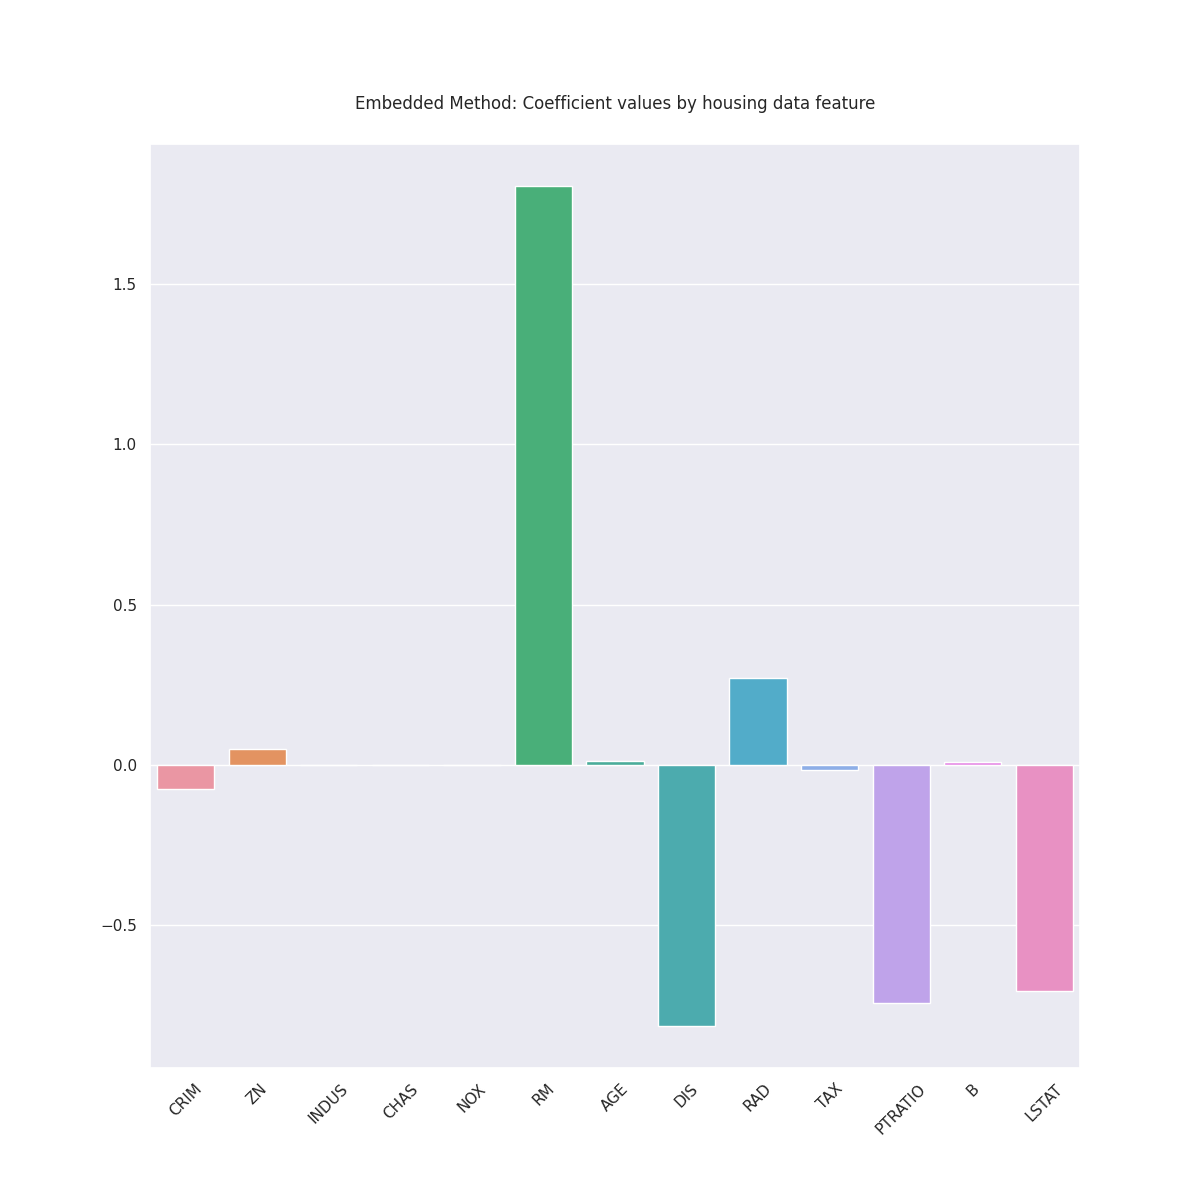
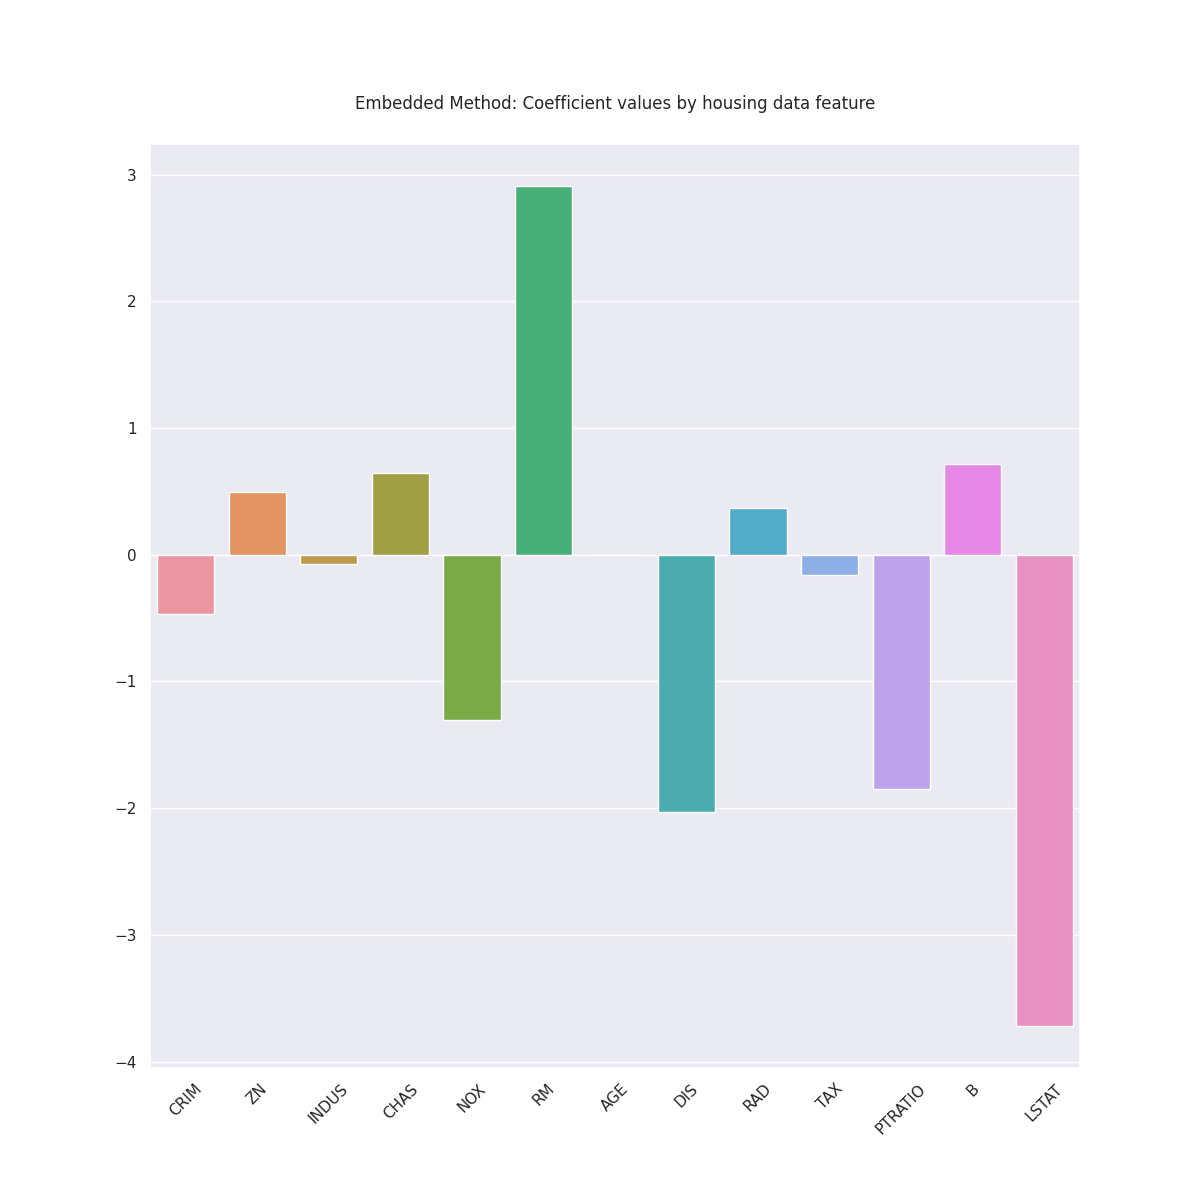
- Corrected correlation table generation code (filter method) - Corrected high correlation table feature selection criteria to remove an irrelevant feature (filter method) - Corrected feature selection code (filter method) - Renamed variables for scaled features (embedded method) - Renamed variables

diff --git a/Median_Value_Prediction.py b/Median_Value_Prediction.py
@@ -17,7 +17,8 @@ from sklearn.svm import SVR
 from sklearn.ensemble import GradientBoostingRegressor
 from sklearn.neighbors import KNeighborsRegressor
 
-from sklearn.linear_model import LassoCV  # Select features using Embedded
+from sklearn.feature_selection import SelectFromModel  # Select features using Embedded method
+from sklearn.linear_model import LassoCV  # Select features using Embedded method
 
 
 def load_data():
@@ -30,7 +31,7 @@ def prepare_data(housing_dat):
     housing_dat.columns = ['CRIM', 'ZN', 'INDUS', 'CHAS', 'NOX', 'RM', 'AGE',
                            'DIS', 'RAD', 'TAX', 'PTRATIO', 'B', 'LSTAT', 'MEDV']
 
-    print(f'\nNull values for data are:{housing_dat.isnull().sum()}\n')
+    print(f'\nNull values for data are:\n{housing_dat.isnull().sum()}\n')
     return housing_dat
 
 
@@ -59,7 +60,27 @@ def scale_data(x):
     return scaler.transform(x)
 
 
+def compute_rmse(X, y, rmse_matrix, col_select):
+    """Accepts feature and target data, RMSE numpy matrix and matrix column number to store RMSE values.
+    Trains all models and computes RMSE values from predictions."""
+    # Scale data
+    X = scale_data(X)
+
+    # Split data for training
+    X_train, X_test, y_train, y_test = train_test_split(X, y, test_size=0.35,
+                                                        shuffle=True, random_state=1)
+    # Train models and place RMSE result in RMSE_values
+    rmse_idx = 0
+    for Model in [LinearRegression, GradientBoostingRegressor, ElasticNet, KNeighborsRegressor, Lasso, SVR]:
+        model = Model()
+        model.fit(X_train, y_train)
+        predicted_values = model.predict(X_test)
+        rmse_matrix[rmse_idx, col_select] = np.sqrt(metrics.mean_squared_error(y_test, predicted_values))
+        rmse_idx += 1
+
+
 def main():
+    # Parse command-line argument for figure storage path
     parser = ArgumentParser()
     parser.add_argument("figure_directory", nargs='?', default=os.getcwd(),
                         help="Directory to save output images. "
@@ -82,20 +103,7 @@ def main():
     X = housing_data.drop('MEDV', axis=1)  # Select all features and copy to X
     y = housing_data['MEDV']  # Copy median house values (target) to y
 
-    # Scale data
-    scaled_features = scale_data(X)
-
-    # Split data for training
-    X_train, X_test, y_train, y_test = train_test_split(scaled_features, y, test_size=0.35,
-                                                        shuffle=True, random_state=1)
-    # Train models using method 1 and place RMSE result in RMSE_values
-    rmse_idx = 0
-    for Model in [LinearRegression, GradientBoostingRegressor, ElasticNet, KNeighborsRegressor, Lasso, SVR]:
-        model = Model()
-        model.fit(X_train, y_train)
-        predicted_values = model.predict(X_test)
-        rmse_values[rmse_idx, 0] = np.sqrt(metrics.mean_squared_error(y_test, predicted_values))
-        rmse_idx += 1
+    compute_rmse(X, y, rmse_values, 0)
 
     #####################################################
     ##    Feature Selection Method 2: Filter Method    ##
@@ -104,12 +112,15 @@ def main():
     # Create correlation table for data
     corr_table = pd.DataFrame(data=housing_data.corr(),
                               columns=housing_data.columns)
-    corr_table_tril = corr_table.corr().where(np.tril(np.ones(corr_table.corr().shape)).astype(np.bool))
+
+    # Format correlation table
+    mask = np.zeros(corr_table.shape, dtype=bool)
+    mask[np.triu_indices(len(mask), 1)] = True
 
     # Create heatmap of correlation data and save image
     sns.set()
     fig, ax = plt.subplots(figsize=(12, 12))
-    sns.heatmap(corr_table_tril, annot=True, cmap='autumn')
+    sns.heatmap(corr_table, annot=True, cmap='autumn', fmt='.3g', mask=mask, annot_kws={'size': 9})
     ax.set_xticklabels(housing_data.columns, rotation=45)
     ax.set_yticklabels(housing_data.columns, rotation=45)
     plt.title('Correlation map for Boston Housing Data', pad=25)
@@ -118,10 +129,12 @@ def main():
 
     # Determine features which correlate highly with median house value
     corr_y = abs(corr_table["MEDV"])
-    high_corr_features = corr_y[corr_y > 0.5]
+    high_corr_features = corr_y[(corr_y > 0.5) & (corr_y != 1)]
+    print(f"\nFilter Method:\n\nFeatures highly correlated with MEDV (coefficient > 0.5):\n")
+    print(f"{high_corr_features}")
 
     # Determine correlations between features that have a high corr with MEDV and drop
-    print(f"\nFilter Method:\n\nCorrelation between features that have a high corr with MEDV:\n")
+    print(f"\n\nCorrelation between features that have a high corr with MEDV:\n")
     print(f"{housing_data[['RM', 'LSTAT']].corr()}\n\n{housing_data[['LSTAT', 'PTRATIO']].corr()}")
     print(f'\nRM will be removed accordingly\n\n')
 
@@ -129,20 +142,7 @@ def main():
     X = housing_data[['LSTAT', 'PTRATIO']]
     y = housing_data['MEDV']
 
-    # Scale data
-    scaled_features = scale_data(X)
-
-    X_train, X_test, y_train, y_test = train_test_split(scaled_features, y, test_size=0.35,
-
-                                                        shuffle=True, random_state=1)
-    # Train models using method 2 and place RMSE result in RMSE_values
-    rmse_idx = 0
-    for Model in [LinearRegression, GradientBoostingRegressor, ElasticNet, KNeighborsRegressor, Lasso, SVR]:
-        model = Model()
-        model.fit(X_train, y_train)
-        predicted_values = model.predict(X_test)
-        rmse_values[rmse_idx, 1] = np.sqrt(metrics.mean_squared_error(y_test, predicted_values))
-        rmse_idx += 1
+    compute_rmse(X, y, rmse_values, 1)
 
     #####################################################
     ##    Feature Selection Method 3: Embedded Method  ##
@@ -151,37 +151,42 @@ def main():
     X = housing_data.drop('MEDV', axis=1)  # Select all features and copy to X
     y = housing_data['MEDV']  # Copy median house values (target) to y
 
-    # Determine which features relate most weakly to MEDV prediction (coefficients --> ~0)
-    reg = LassoCV()
-    reg.fit(X, y)
-    coef = pd.Series(reg.coef_, index=X.columns)
+    columns = X.columns  # Store feature data column names
 
+    # Scale X features
+    X = scale_data(X)
+
+    # Determine which features relate most weakly to MEDV prediction
+    # using LassoCV regularization
+    lsoCV = LassoCV().fit(X, y)
+    feat_sel = SelectFromModel(lsoCV, prefit=True)
+    X_new = feat_sel.transform(X)
+
+    # Identify removed features and print
+    print(f'Embedded method\n\nFrom LassoCV regularization, the feature(s) below were dropped:\n')
+
+    coefs = pd.Series(lsoCV.coef_, index=columns)
+    for idx, coeff in enumerate(coefs):
+        if coeff == 0:
+            print(f'{coefs.index[idx]}\n')
+
+    print(f'Regularization coefficients:\n{coefs}\n')
+
+    # Plot coefficients from LassoCV regularization
     sns.set()
     plt.subplots(figsize=(12, 12))
-    sns.barplot(x=X.columns, y=coef)
+    sns.barplot(x=columns, y=coefs)
     plt.xticks(rotation=45)
     plt.title('Embedded Method: Coefficient values by housing data feature', pad=25)
 
     save_plot(args.figure_directory, 'embed_method_coeffs.png')
+    plt.show()
 
-    # Drop features with zero value coefficients
-    X = housing_data.drop(['NOX', 'INDUS', 'CHAS'], axis=1)
-    y = housing_data['MEDV']
+    compute_rmse(X_new, y, rmse_values, 2)
 
-    # Scale features
-    scaled_features = scale_data(X)
-
-    # Split data for training
-    X_train, X_test, y_train, y_test = train_test_split(scaled_features, y, test_size=0.35,
-                                                        shuffle=True, random_state=1)
-    # Train models using method 3 and place RMSE result in RMSE_values
-    rmse_idx = 0
-    for Model in [LinearRegression, GradientBoostingRegressor, ElasticNet, KNeighborsRegressor, Lasso, SVR]:
-        model = Model()
-        model.fit(X_train, y_train)
-        predicted_values = model.predict(X_test)
-        rmse_values[rmse_idx, 2] = np.sqrt(metrics.mean_squared_error(y_test, predicted_values))
-        rmse_idx += 1
+    #####################################################
+    ##    Final Output: RMSE Dataframe                 ##
+    #####################################################
 
     rmse_df = pd.DataFrame(data=rmse_values, index=['Linear Regression', 'GBoostingRegressor', 'ElasticNet',
                                                     'KNeighborsRegressor', 'Lasso', 'SVR'])
@@ -190,7 +195,7 @@ def main():
     print(f'All feature selection methods have been applied.\n\nRMSE table:\n\n{rmse_df.to_string()}\n')
 
     fig, ax = plt.subplots(figsize=(12, 12))
-    sns.heatmap(rmse_df, annot=True, cmap='seismic')
+    sns.heatmap(rmse_df, annot=True, cmap='seismic', fmt='.4g')
     ax.set_xticklabels(rmse_df.columns)
     ax.set_yticklabels(rmse_df.index, rotation=45)
     plt.title('Model Accuracy by Feature Selection Method (using RMSE value)', pad=25)
